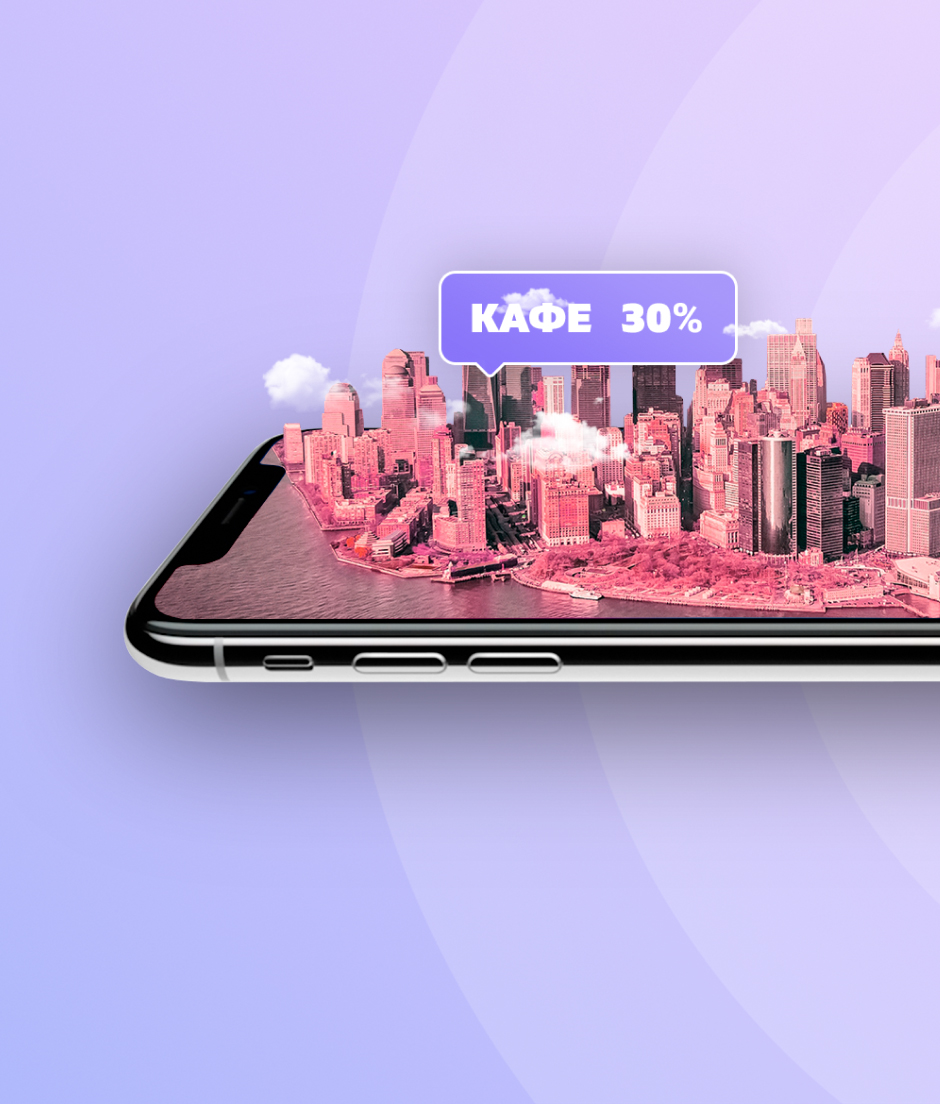
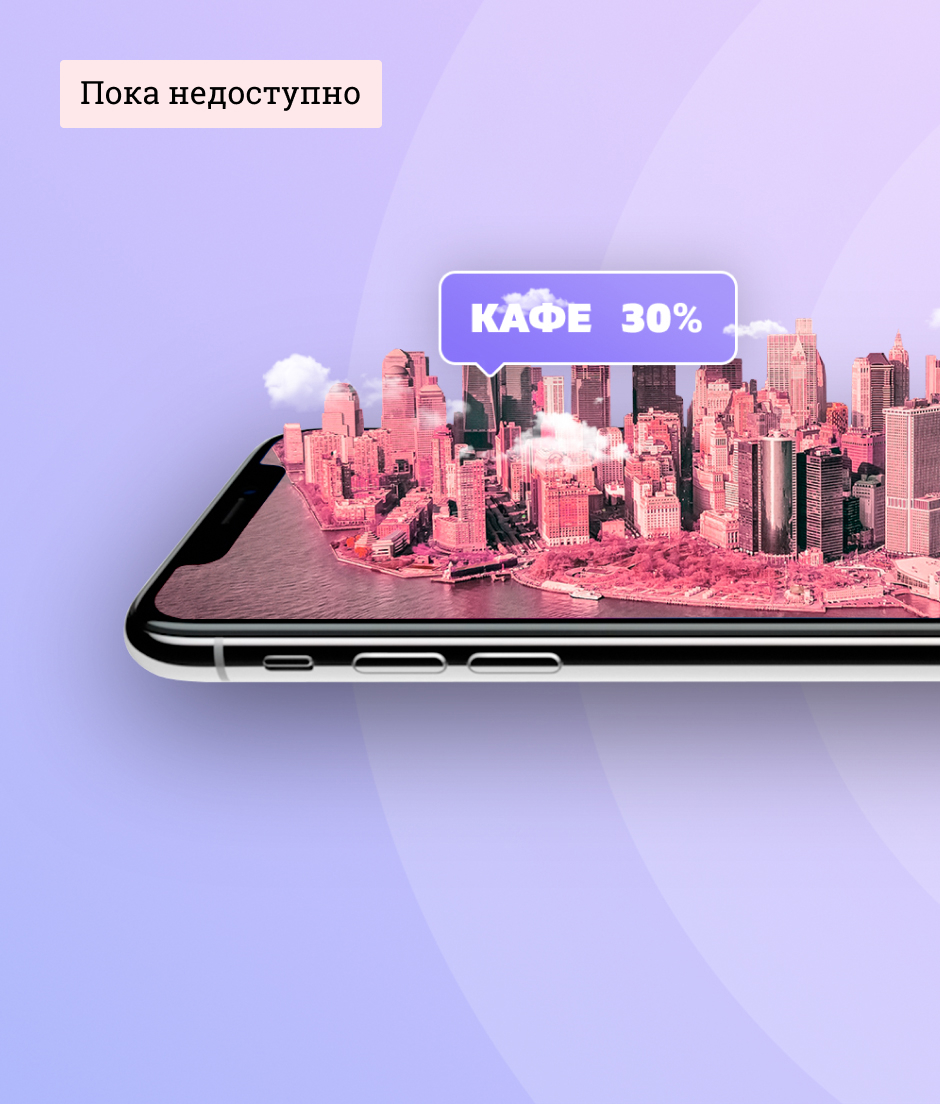
Disable xlgo

Changed region(s): [[0.0617, 0.0308, 0.4319, 0.1232]]

diff --git a/index.html b/index.html
@@ -40,7 +40,7 @@
           </div>
         </div>
       </a>
-      <a class="item text-decoration-none" href="https://xlgo.ru" target="_blank">
+      <a class="item item-disable text-decoration-none" href="https://xlgo.ru" target="_blank">
         <div class="img-block">
           <div class="img" style="background-image: url(img/xlgo.jpg)"></div>
           <div class="item-text xlgo">
@@ -67,7 +67,7 @@
           </div>
         </div>
       </a>
-      <a class="item text-decoration-none" href="https://b2b.xlgo.ru" target="_blank">
+      <a class="item item-disable text-decoration-none" href="" target="_blank">
         <div class="img-block">
           <div class="img" style="background-image: url(img/b2bxlgo.jpg)"></div>
           <div class="item-text b2bxlgo">

diff --git a/css/style.css b/css/style.css
@@ -144,6 +144,10 @@ a {
 	margin-bottom: 10vw;
 }
 
+.item-disable {
+	filter: grayscale(100%);
+}
+
 .img-block {
 	display: block;
   position: relative;
